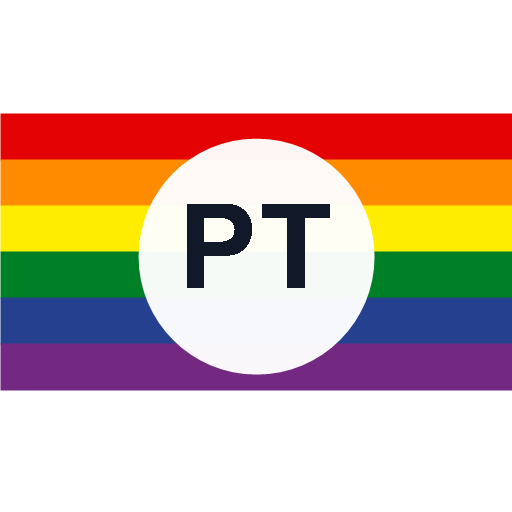
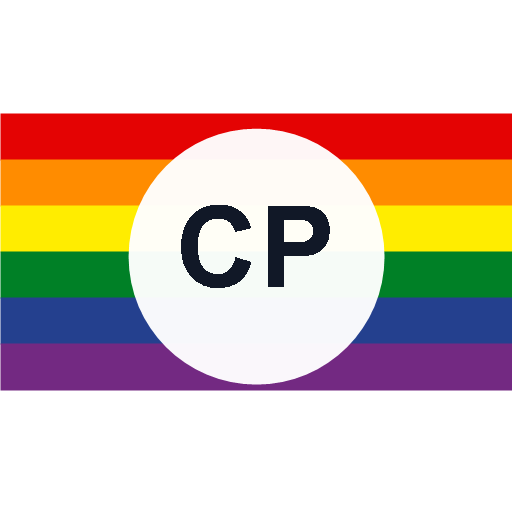
docs: brand as Cologne Pride Planer

Changed region(s): [[0.25, 0.25, 0.75, 0.75], [0.3438, 0.375, 0.6562, 0.5625], [0.4375, 0.375, 0.4688, 0.4062]]

diff --git a/app.js b/app.js
@@ -1,6 +1,6 @@
 /**
  * MODEL-KLASSE
- * Verwaltet Daten, Favoriten und das Live-Tracking
+ * Verwaltet Daten, Favoriten und lokale Markierungen
  */
 class ParadeModel {
     constructor(data) {
@@ -29,7 +29,7 @@ class ParadeModel {
         localStorage.setItem('csd_favorites_2026', JSON.stringify(this.favorites));
     }
 
-    // Live Tracking
+    // Lokale Markierungen
     toggleTracking(id) {
         if (this.tracking[id]) {
             delete this.tracking[id];
@@ -246,10 +246,10 @@ class UIController {
         if (!stats.active) {
             this.trackingBanner.classList.add("bg-gray-50", "text-gray-600", "border-gray-200");
             if (stats.count === 0) {
-                this.trackingText.innerHTML = "📍 Markiere Gruppen mit <b>Jetzt da!</b>, um ETAs zu berechnen.";
+            this.trackingText.innerHTML = "📍 Markiere Gruppen mit <b>Jetzt da!</b>, um ETAs zu berechnen.";
                 this.btnResetTrack.classList.add('hidden');
             } else if (stats.count === 1) {
-                this.trackingText.innerHTML = "⏳ 1 Gruppe erfasst. Markiere eine weitere für die Live-Prognose!";
+            this.trackingText.innerHTML = "⏳ 1 Gruppe erfasst. Markiere eine weitere für die Prognose!";
             }
             if (stats.needsDistance) {
                 this.trackingText.innerHTML = `${stats.count} Gruppen erfasst. Für den ersten ETA-Start bitte zwei Marker mit mehr als ${stats.minimumPairGap - 1} Gruppen Abstand setzen.`;
@@ -260,10 +260,10 @@ class UIController {
                 this.trackingBanner.classList.add("text-amber-900", "banner-fav-active");
                 this.trackingText.innerHTML = `⭐ <b>Nächster Favorit:</b> ${stats.nextFav.id} - ${stats.nextFav.name} <b>${this.formatDiffMinutes(stats.nextFavEta)}</b> (${this.formatTime(stats.nextFavEta)})`;
             } else {
-                // Normaler Live-Banner
+            // Normaler Prognose-Banner
                 this.trackingBanner.classList.add("bg-indigo-50", "text-indigo-800", "border-indigo-200");
                 const speedMin = Math.max(0.1, Math.round((stats.speed / 60000) * 10) / 10);
-                this.trackingText.innerHTML = `🚀 <b>Live-Prognose aktiv</b> (Ø ${speedMin} Min/Gruppe).`;
+            this.trackingText.innerHTML = `🚀 <b>Prognose aktiv</b> (Ø ${speedMin} Min/Gruppe).`;
             }
         }
     }
@@ -285,7 +285,7 @@ class UIController {
 
         const displayNumber = item.sub ? `<span class="text-2xl">${item.num}</span><span class="text-sm font-bold text-indigo-600">${item.sub}</span>` : `<span class="text-2xl">${item.num}</span>`;
 
-        // Tracking Button Logik
+        // Marker Button Logik
         const trackBtnClass = isTracked 
             ? "bg-green-100 text-green-700 hover:bg-red-100 hover:text-red-700" 
             : "bg-indigo-50 text-indigo-600 hover:bg-indigo-100";
@@ -409,7 +409,7 @@ class CSDApp {
                 return;
             }
 
-            // Tracking "Jetzt da"
+            // Marker "Jetzt da"
             const trackBtn = e.target.closest('.track-btn');
             if (trackBtn) {
                 const id = trackBtn.getAttribute('data-id');
@@ -419,7 +419,7 @@ class CSDApp {
             }
         });
 
-        // Tracking Zurücksetzen Banner
+        // Markierungen zurücksetzen
         this.btnResetTrack.addEventListener('click', () => {
             if(confirm('Möchtest du die gesammelten Zeiten wirklich zurücksetzen?')) {
                 this.model.clearTracking();
@@ -433,7 +433,7 @@ class CSDApp {
         const showFavs = this.model.currentFilter === 'fav';
         const filteredData = this.model.filterData(query, showFavs);
         
-        // Wichtig: Die UI erhält den Zugriff auf das Model für ETA/Tracking Infos
+        // Wichtig: Die UI erhält den Zugriff auf das Model für ETA/Marker Infos
         this.ui.render(filteredData, this.model);
     }
 }

diff --git a/index.html b/index.html
@@ -6,11 +6,11 @@
     <meta name="theme-color" content="#ffffff">
     <meta name="apple-mobile-web-app-capable" content="yes">
     <meta name="apple-mobile-web-app-status-bar-style" content="black-translucent">
-    <meta name="apple-mobile-web-app-title" content="Pride Tracker">
+    <meta name="apple-mobile-web-app-title" content="Cologne Pride Planer">
     <link rel="manifest" href="manifest.webmanifest">
     <link rel="icon" href="icon.svg" type="image/svg+xml">
     <link rel="apple-touch-icon" href="icon-192.png">
-    <title>CSD Köln 2026 - Startreihenfolge</title>
+    <title>Cologne Pride Planer</title>
     <script src="https://cdn.tailwindcss.com"></script>
     <link rel="stylesheet" href="style.css">
 </head>
@@ -21,7 +21,7 @@
         <div class="rainbow-bg h-2 w-full"></div>
         <div class="p-4 flex flex-col gap-3">
             <div class="flex justify-between items-center">
-                <h1 class="text-xl font-bold font-sans tracking-tight">CSD Köln 2026</h1>
+                <h1 class="text-xl font-bold font-sans tracking-tight">Cologne Pride Planer</h1>
                 <span class="text-xs font-semibold bg-gray-100 text-gray-600 px-2 py-1 rounded-full" id="counter">Lädt...</span>
             </div>
             
@@ -43,10 +43,10 @@
             </div>
         </div>
 
-        <!-- Live Tracking Banner -->
+        <!-- Prognose Banner -->
         <div id="trackingBanner" class="bg-gray-50 text-gray-600 text-xs px-4 py-2 border-b border-gray-200 shadow-inner flex items-center justify-between transition-colors">
-            <span id="trackingText">📍 Markiere Gruppen mit "Jetzt da!", um Live-ETAs zu berechnen.</span>
-            <button id="btnResetTrack" class="hidden text-gray-400 hover:text-red-500 font-bold ml-2 p-1 focus:outline-none" title="Tracking zurücksetzen">✕</button>
+            <span id="trackingText">📍 Markiere Gruppen mit "Jetzt da!", um ETAs zu berechnen.</span>
+            <button id="btnResetTrack" class="hidden text-gray-400 hover:text-red-500 font-bold ml-2 p-1 focus:outline-none" title="Markierungen zurücksetzen">✕</button>
         </div>
     </header>
 

diff --git a/sw.js b/sw.js
@@ -1,4 +1,4 @@
-const CACHE_NAME = 'pride-tracker-v2';
+const CACHE_NAME = 'cologne-pride-planer-v1';
 const APP_SHELL = [
   './',
   './index.html',

diff --git a/README.md b/README.md
@@ -1,0 +1,49 @@
+# Cologne Pride Planer
+
+Lokale Planungs-App fuer den Cologne Pride 2026: Startreihenfolge durchsuchen, Favoriten merken, Gruppen als "Jetzt da" markieren und daraus eine ETA-Prognose fuer kommende Favoriten ableiten.
+
+Repository: `streetblock/cologne-pride-planer`
+
+## Was die App macht
+
+- Startreihenfolge mit 244 Gruppen anzeigen
+- Suche nach Name, Nummer oder ID
+- Favoriten lokal im Browser speichern
+- "Jetzt da"-Marker lokal im Browser speichern
+- ETA-Prognose aus den gesetzten Markern berechnen
+- Als Progressive Web App installierbar, wenn sie ueber `https://` oder `localhost` ausgeliefert wird
+- App-Shell und Gruppendaten per Service Worker cachen
+
+Die App hat bewusst kein Backend und keine echten Live-Standortdaten. Alle Markierungen entstehen lokal auf dem eigenen Geraet.
+
+## Lokal starten
+
+Die App muss ueber einen lokalen Webserver laufen, weil `groups.json` per `fetch()` geladen wird und Service Worker nicht ueber `file://` funktionieren.
+
+Mit Node.js:
+
+```bash
+npx serve .
+```
+
+Oder mit Python:
+
+```bash
+python -m http.server 8000
+```
+
+Dann im Browser `http://localhost:8000` oeffnen.
+
+## Dateien
+
+- `index.html` - HTML-Shell
+- `style.css` - App-spezifische Styles
+- `app.js` - UI, lokale Marker, Favoriten und ETA-Prognose
+- `groups.json` - Gruppen- und Startreihenfolge-Daten
+- `manifest.webmanifest` - PWA-Metadaten
+- `sw.js` - Service Worker Cache
+- `icon.svg`, `icon-192.png`, `icon-512.png` - App-Icons
+
+## Prognose
+
+Die Prognose startet pragmatisch mit zwei Markern, wenn diese mehr als fuenf Gruppen auseinander liegen. Sobald mehr Daten vorhanden sind, nutzt die App mehrere Abschnitte und filtert Ausreisser robuster heraus.